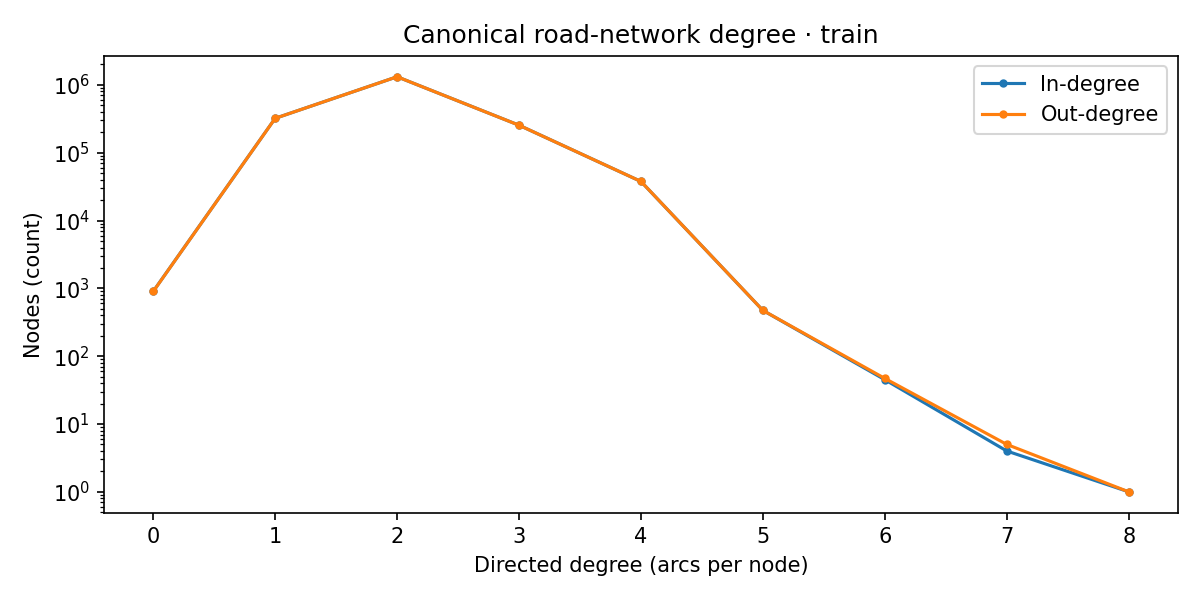
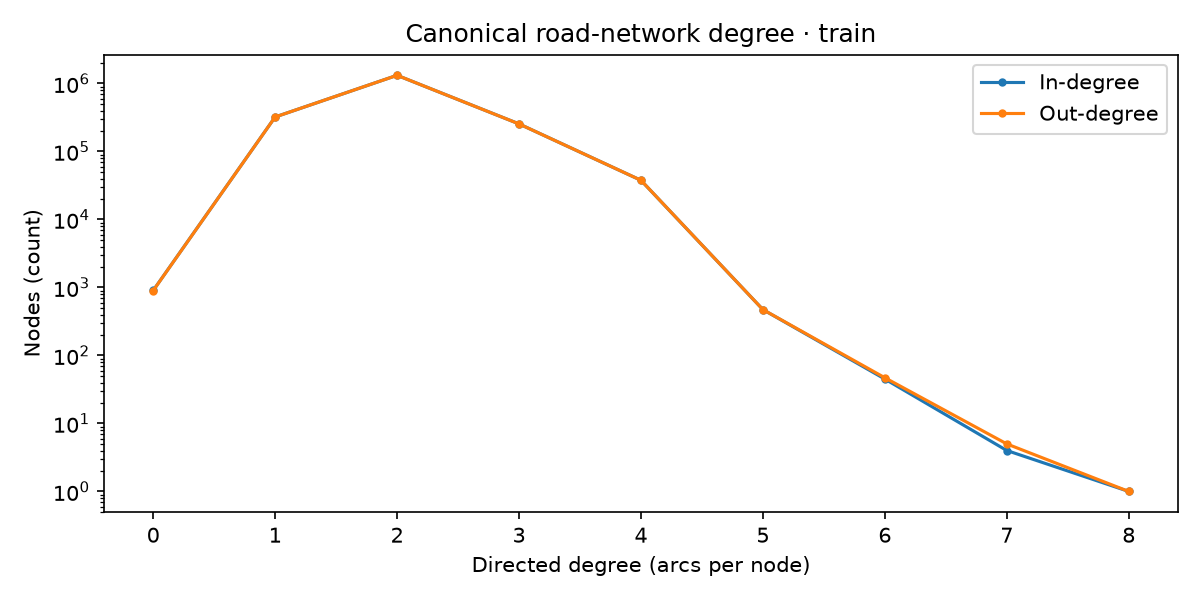
Document measured data quality and preprocessing decisions
(cherry picked from commit b79236cb6e27d5a74bf05192fb9525bab875e3d6)

diff --git a/results/eda/data_quality.md b/results/eda/data_quality.md
@@ -1,0 +1,13 @@
+# PathSnap data quality
+
+The notebook inventories 80 training trips and 10 student-test trips. All 360 required files were present and parsed. Training has 208,417 GPS observations and student-test has 19,160. The analyses below use the training partition. [Trip inventory](trip_inventory.csv)
+
+- **GPS fields.** No missing, infinite, or out-of-range longitude, latitude, or timestamp values appeared in the training tracks. There were no exact duplicate GPS rows and six consecutive repeated positions. Preserve every observation and use the loader’s duplicate and jump flags. [GPS quality](gps_quality.csv)
+- **Sampling.** Timestamps increased within all 80 training trips. Trips `00000002`, `00000071`, and `00000097` contain fractional timestamps. The median trip has 99.14% one-second steps. There are 1,216 intervals over five seconds, including 153,064 s in trip `00000090` and 52,810 s in trip `00000078`. Keep the original timestamps and use the pipeline’s gap flag. [Sampling by trip](sampling_by_trip.csv) · [Largest gaps](largest_gps_gaps.csv)
+- **Geography and speed.** Training observations span 100.419°W to 137.237°E and 34.640°S to 61.267°N. The notebook uses the per-trip UTM projection to measure distances. For positive time intervals it flags 150 projected speeds above 70 m/s, with a maximum of 180.54 m/s. The loader uses approximate metres and flags 148 steps. Preserve the points and use the flags as model features. [Geographic extent](geographic_extent.csv) · [Projected speed outliers](speed_outliers.csv)
+- **Road network.** Individual networks range from 299 to 155,003 nodes and from 649 to 307,392 directed arcs. Across the training networks there are 1,775 duplicate directed arcs, 22 self-loops, 78 zero-length arcs between distinct nodes, and zero isolated nodes. The median trip’s canonical non-loop reverse-twin share is 95.1%. Use the canonical IDs, directed geometry, and candidate mask. Weak and strong component counts cover all 80 training networks. [Network topology](network_topology.csv)
+- **Reference routes.** The median training reference length is 14.31 km. Ten reference routes contain 13 direct connectivity breaks in total. Length sums arcs in recorded order, and the analysis counts discontinuities without inserting segments. [Route lengths and breaks](reference_route_lengths.csv)
+- **Alignment.** The point-weighted training median distance to the aligned reference arc is 5.68 m and the 95th percentile is 142.10 m. Trips `00000033` and `00000054` have medians of 122.41 m and 140.09 m. The 50 m trip-median rule excludes them from fitting. Trip `00000002` has a long tail with a 242.36 m p95 and a 5.77 m median, so the rule retains it. The aligned observations remain in the EDA. [Alignment overview](alignment_overview.csv) · [Trip alignment](label_alignment.csv)
+- **Candidate coverage.** On all training points, the selected 50 m radius and eight-candidate cap miss 24,841 reference arcs (11.92%) at a mean of 6.14 candidates per point averaged across trips. A 75 m radius and cap of 12 miss 11.18% at a mean of 9.31 candidates, which is a 0.74 percentage point improvement with 52% more candidates. The experiments retain the 50 m and eight-candidate configuration. [Candidate sweep](candidate_miss_rate.csv) · [Coverage plot](candidate_sweep.png)
+
+The notebook executed all 10 code cells in Python 3.11.17. Seven PNG figures and the plotted tables are stored in this directory. [EDA notebook](../../notebooks/01_eda.ipynb) · [Training trip starts](train_trip_starts.html)
